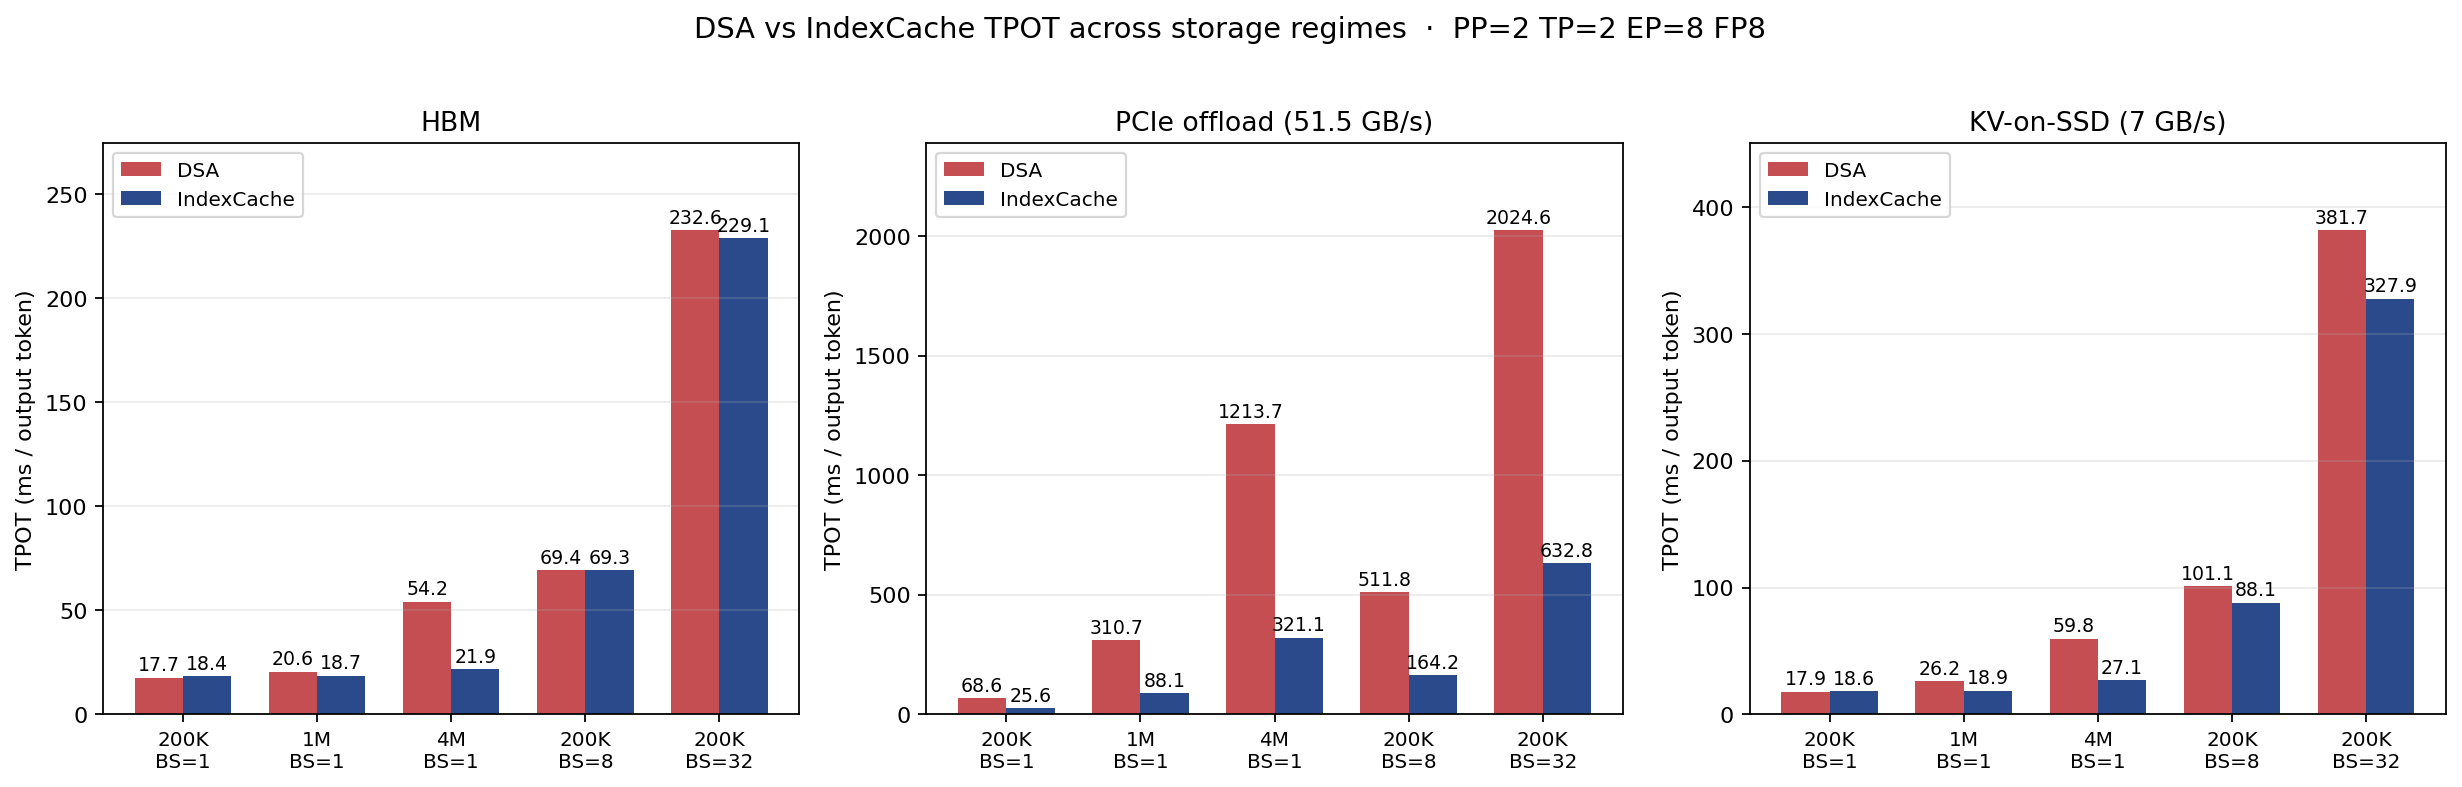
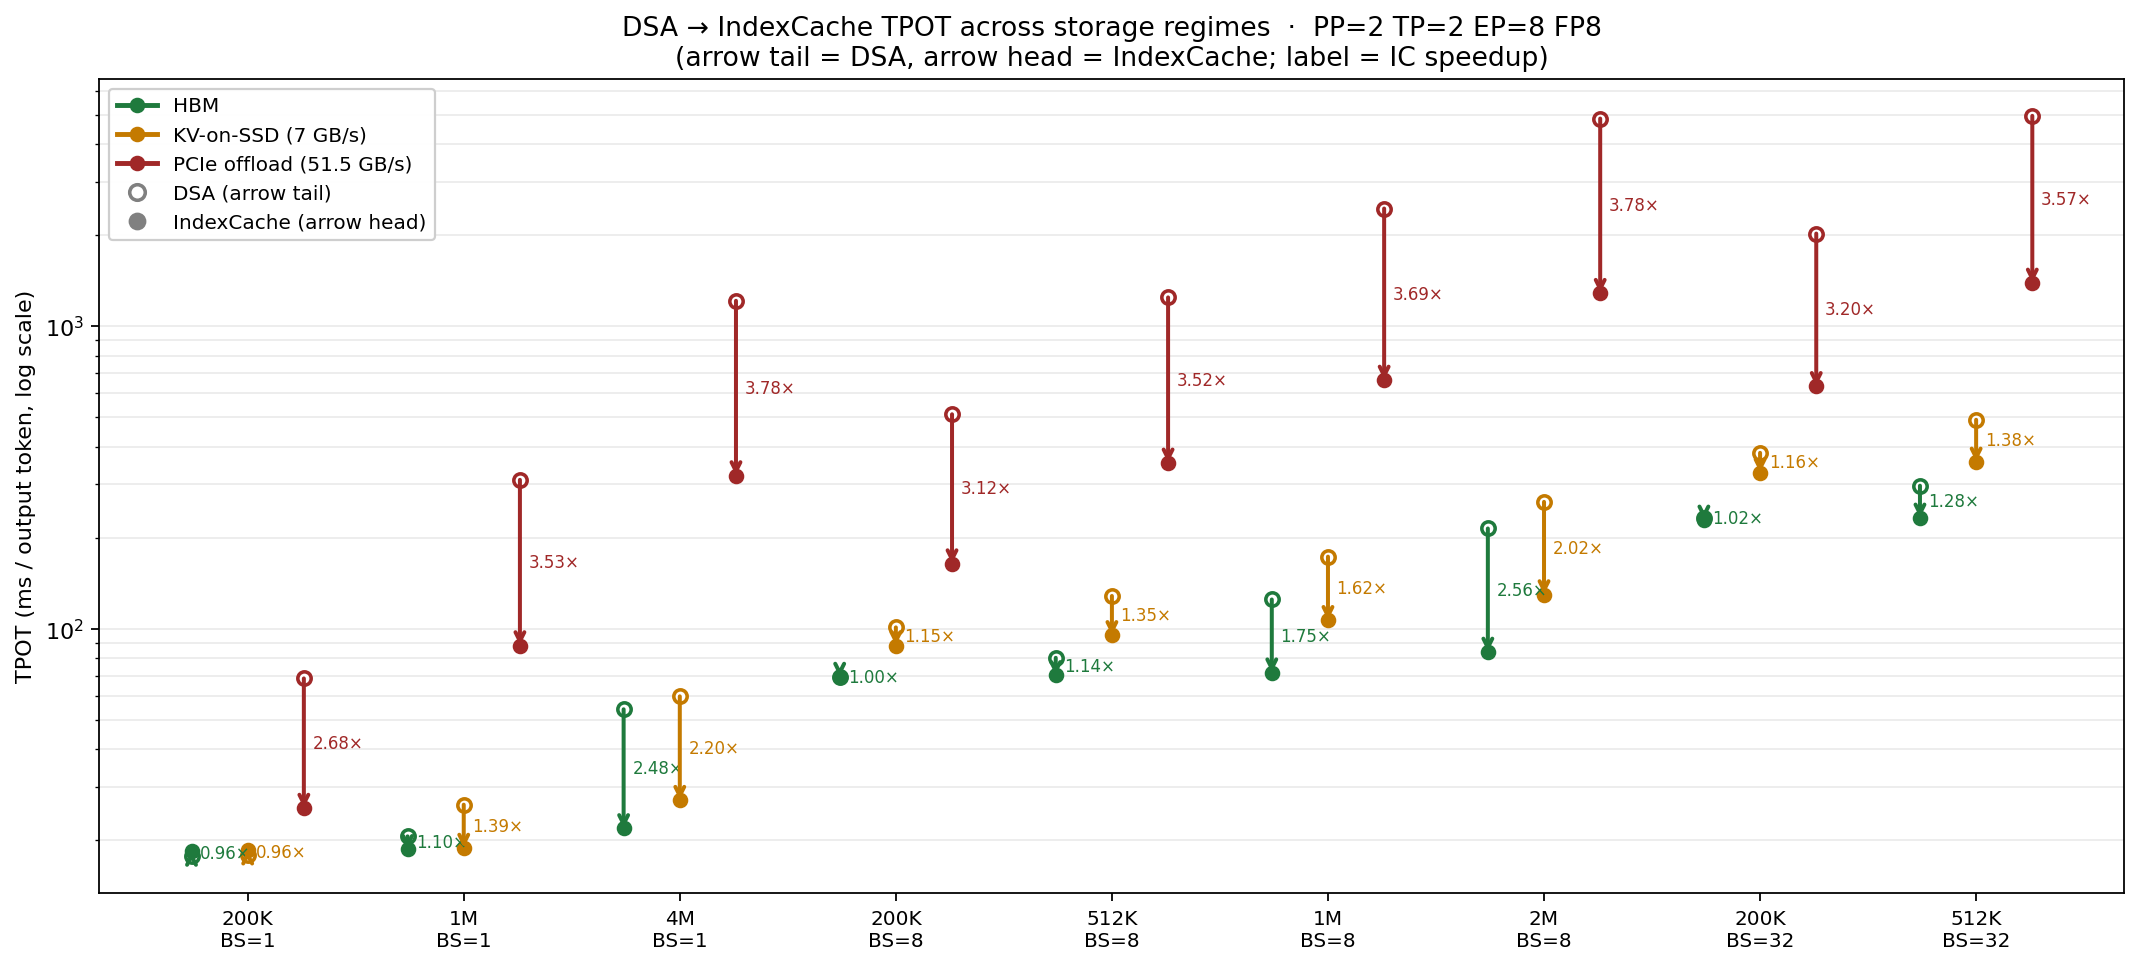
slides: redo three-regimes TPOT figure as log-scale slope chart
Replace the three-panel bar chart (independent y-axes that made HBM and
PCIe visually incomparable) with a single log-scale slope chart. Each
scenario shows three arrows from DSA TPOT to IC TPOT, color-coded by
regime, with the speedup labeled on each arrow. Adds 512K/1M/2M BS=8
scenarios that were missing from the previous version.

https://claude.ai/code/session_01Hc6HPkDRmKxauvdumkV5Yi

diff --git a/experiments/generate_slide_figures.py b/experiments/generate_slide_figures.py
@@ -104,25 +104,28 @@ def fig_tpot_vs_sl():
 # Figure 2 — TPOT across three storage regimes (HBM / PCIe / KV-on-SSD)
 # ─────────────────────────────────────────────────────────────────────
 def fig_tpot_three_regimes():
-    """One figure, three side-by-side panels (one per storage regime).
-    Per scenario, two bars (DSA vs IndexCache). Y-axis = TPOT (ms).
-    Bar labels = the TPOT value.
+    """Slope chart: for each (scenario, regime) draw an arrow from DSA TPOT
+    down to IC TPOT. Three arrows per scenario, color-coded by regime.
+    Log y-axis so HBM (~10s ms), KV-on-SSD (~100s ms), and PCIe offload
+    (~1000s ms) all coexist.
 
-    Same parallelism config across all three regimes for a fair compare:
-    PP=2, TP=2, EP=8, FP8.
+    Config: PP=2 TP=2 EP=8 FP8 (same across all regimes for fair compare).
     """
     from experiments.dsa_vs_ic_kv_ssd import (
         build_pattern as build_ssd, schedule_pp as sched_ssd)
 
     PP, TP, FP8 = 2, 2, True
 
-    # Scenarios shown in every panel
     scenarios = [
         ("200K\nBS=1",  200*1024,         1),
         ("1M\nBS=1",    1024*1024,        1),
         ("4M\nBS=1",    4*1024*1024,      1),
         ("200K\nBS=8",  200*1024,         8),
+        ("512K\nBS=8",  512*1024,         8),
+        ("1M\nBS=8",    1024*1024,        8),
+        ("2M\nBS=8",    2*1024*1024,      8),
         ("200K\nBS=32", 200*1024,        32),
+        ("512K\nBS=32", 512*1024,        32),
     ]
 
     def tpot_hbm_offload(mode, sl, bs):
@@ -138,50 +141,61 @@ def fig_tpot_three_regimes():
         return dsa, ic
 
     regimes = [
-        ("HBM",                 lambda sl, bs: tpot_hbm_offload("hbm", sl, bs)),
-        ("PCIe offload (51.5 GB/s)",
-                                lambda sl, bs: tpot_hbm_offload("offload", sl, bs)),
-        ("KV-on-SSD (7 GB/s)",  lambda sl, bs: tpot_ssd(sl, bs, 7.0)),
+        ("HBM",                  "#1f7a3d", lambda sl, bs: tpot_hbm_offload("hbm", sl, bs)),
+        ("KV-on-SSD (7 GB/s)",   "#c47a00", lambda sl, bs: tpot_ssd(sl, bs, 7.0)),
+        ("PCIe offload (51.5 GB/s)", "#a02828",
+                                              lambda sl, bs: tpot_hbm_offload("offload", sl, bs)),
     ]
 
-    fig, axes = plt.subplots(1, 3, figsize=(15.5, 4.8))
+    fig, ax = plt.subplots(figsize=(13.5, 6.2))
 
-    cDSA = "#c44e52"
-    cIC  = "#2a4a8b"
+    n = len(scenarios)
+    x_base = np.arange(n, dtype=float)
+    sub_offsets = np.linspace(-0.26, 0.26, len(regimes))
 
-    for ax, (title, fn) in zip(axes, regimes):
-        dsas, ics = [], []
-        labels = []
-        for lbl, sl, bs in scenarios:
-            labels.append(lbl)
+    for r_idx, (name, color, fn) in enumerate(regimes):
+        xs = x_base + sub_offsets[r_idx]
+        for xi, (lbl, sl, bs) in zip(xs, scenarios):
             dsa, ic = fn(sl, bs)
-            dsas.append(dsa)
-            ics.append(ic)
+            # arrow from DSA (top) to IC (bottom). For 0.96-1.00× cases,
+            # arrow may go slightly up — still draw with same head.
+            ax.annotate(
+                "", xy=(xi, ic), xytext=(xi, dsa),
+                arrowprops=dict(arrowstyle="->", color=color, lw=1.8,
+                                shrinkA=0, shrinkB=0))
+            ax.plot([xi], [dsa], "o", color=color, markersize=6,
+                    markerfacecolor="white", markeredgewidth=1.6)
+            ax.plot([xi], [ic],  "o", color=color, markersize=6)
+            # speedup label on the arrow
+            sp = dsa / ic
+            mid = (dsa * ic) ** 0.5  # geometric mid (log axis)
+            ax.text(xi + 0.04, mid, f"{sp:.2f}×",
+                    fontsize=7.5, color=color, va="center")
 
-        x = np.arange(len(scenarios))
-        w = 0.36
-        b1 = ax.bar(x - w/2, dsas, w, label="DSA",        color=cDSA)
-        b2 = ax.bar(x + w/2, ics,  w, label="IndexCache", color=cIC)
+    # Legend entries
+    handles = []
+    for name, color, _ in regimes:
+        handles.append(plt.Line2D([], [], color=color, lw=2.2, marker="o",
+                                  markerfacecolor=color, label=name))
+    handles.append(plt.Line2D([], [], color="gray", lw=0, marker="o",
+                              markerfacecolor="white", markeredgewidth=1.6,
+                              markersize=7, label="DSA (arrow tail)"))
+    handles.append(plt.Line2D([], [], color="gray", lw=0, marker="o",
+                              markerfacecolor="gray",
+                              markersize=7, label="IndexCache (arrow head)"))
+    ax.legend(handles=handles, loc="upper left", fontsize=9, framealpha=0.95)
 
-        top = max(max(dsas), max(ics)) * 1.18
-        ax.set_ylim(0, top)
+    ax.set_yscale("log")
+    ax.set_xticks(x_base)
+    ax.set_xticklabels([s[0] for s in scenarios], fontsize=9)
+    ax.set_ylabel("TPOT (ms / output token, log scale)")
+    ax.grid(axis="y", which="both", alpha=0.25)
+    ax.set_title("DSA → IndexCache TPOT across storage regimes  ·  "
+                 "PP=2 TP=2 EP=8 FP8\n"
+                 "(arrow tail = DSA, arrow head = IndexCache; "
+                 "label = IC speedup)",
+                 fontsize=12)
 
-        for bars in (b1, b2):
-            for b in bars:
-                ax.text(b.get_x() + b.get_width() / 2,
-                        b.get_height() + top * 0.012,
-                        f"{b.get_height():.1f}", ha="center", fontsize=8.5)
-
-        ax.set_xticks(x)
-        ax.set_xticklabels(labels, fontsize=9)
-        ax.set_title(title, fontsize=12)
-        ax.grid(axis="y", alpha=0.25)
-        ax.set_ylabel("TPOT (ms / output token)")
-        ax.legend(loc="upper left", fontsize=9)
-
-    fig.suptitle("DSA vs IndexCache TPOT across storage regimes  ·  "
-                 "PP=2 TP=2 EP=8 FP8",
-                 fontsize=13, y=1.02)
     plt.tight_layout()
     path = os.path.join(OUT, "fig_tpot_three_regimes.png")
     plt.savefig(path, dpi=160, bbox_inches="tight")
